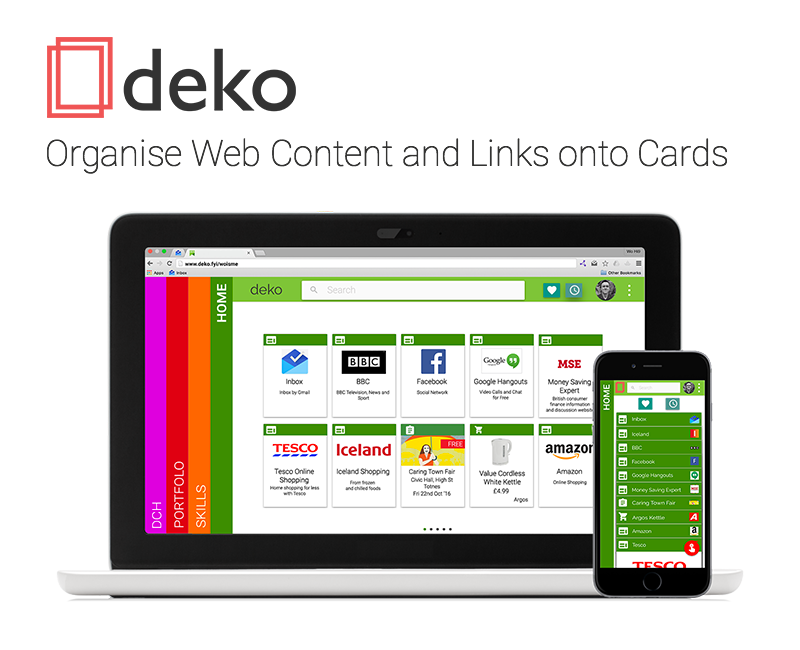
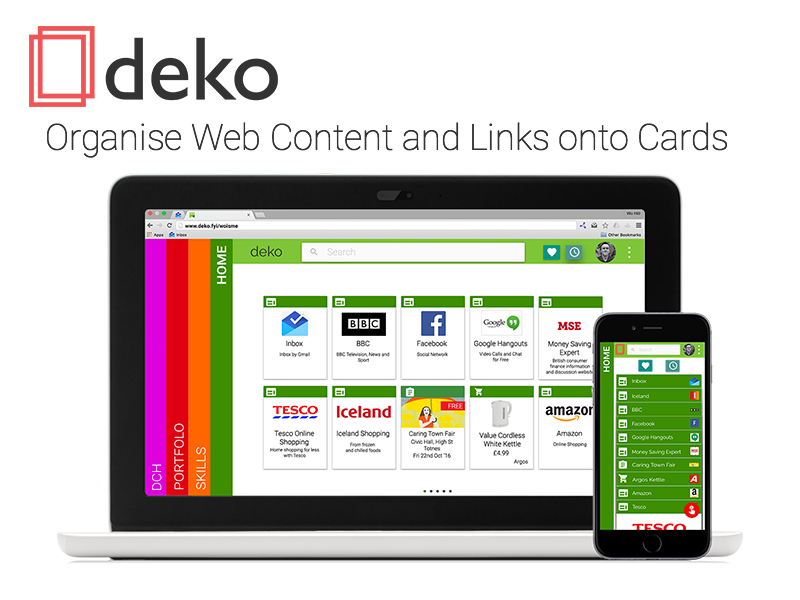
media kit changes

Changed region(s): [[0.0312, 0.03, 0.9375, 0.96], [0.5938, 0.72, 0.6562, 0.75]]

diff --git a/src/shared-styles.html b/src/shared-styles.html
@@ -34,7 +34,7 @@
         display:inline-block;
         text-align: left;
         margin: 10px;
-        height: 600px;
+        height: 500px;
         vertical-align: top;
       }
       paper-button {
@@ -70,7 +70,7 @@
         background-color: #fff;
         margin-top: 50px;
       }
-      @media only screen and (max-device-width : 700px)  {
+      @media only screen and (max-device-width : 1000px)  {
         .biggercard {
           width: 90%;
           height: 300px;
